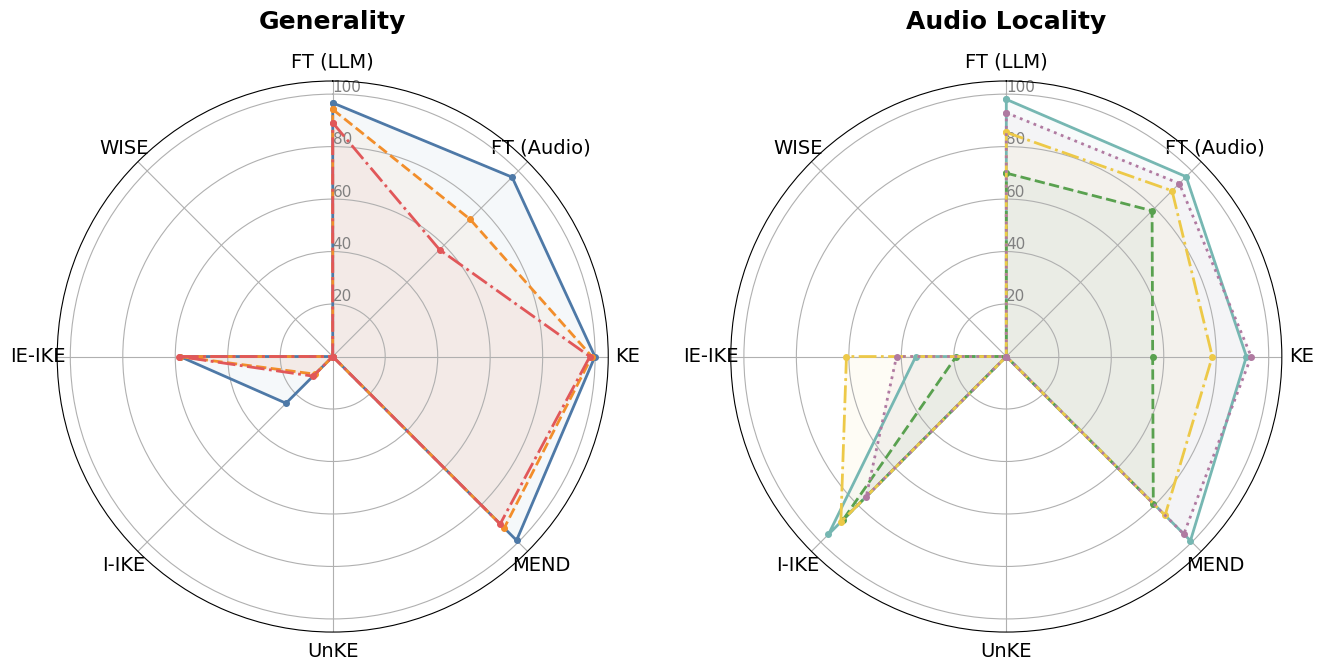
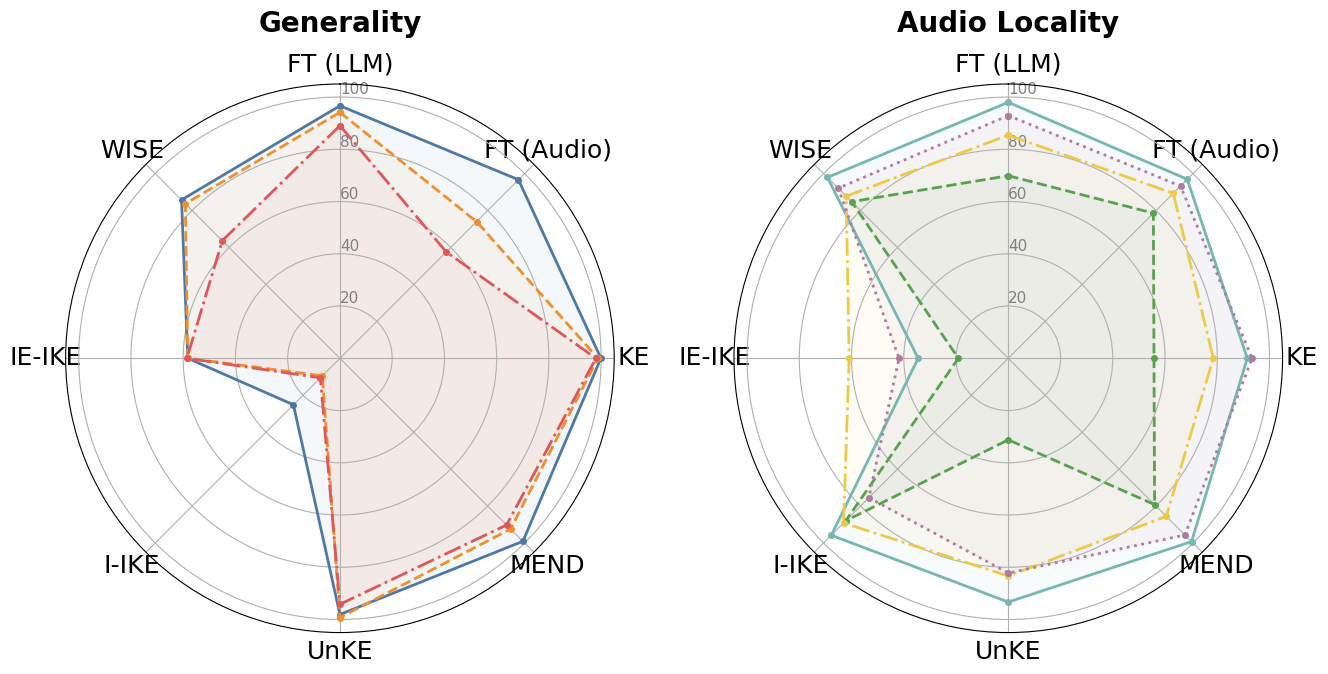
update radar charts

diff --git a/model_outputs/paper_utils/plot_scripts/type_breakdown_radar.py b/model_outputs/paper_utils/plot_scripts/type_breakdown_radar.py
@@ -117,15 +117,15 @@ parser.add_argument(
 parser.add_argument(
     "--show_legend",
     action="store_true",
-    default=True,
-    help="Show legend (default: True). Use --no_legend to hide.",
+    # default=True,
+    # help="Show legend (default: True). Use --no_legend to hide.",
 )
-parser.add_argument(
-    "--no_legend",
-    action="store_false",
-    dest="show_legend",
-    help="Do not show legend",
-)
+# parser.add_argument(
+#     "--no_legend",
+#     action="store_false",
+#     dest="show_legend",
+#     help="Do not show legend",
+# )
 args = parser.parse_args()
 
 # ==========================================
@@ -159,7 +159,7 @@ def plot_radar(ax, data, colors, title, type_name, num_types):
     ax.set_theta_offset(np.pi / 2)
     ax.set_theta_direction(-1)
     ax.set_xticks(angles[:-1])
-    ax.set_xticklabels(methods, size=14)
+    ax.set_xticklabels(methods, size=18)
 
     # Y軸 (分數)
     ax.set_rlabel_position(0)
@@ -176,14 +176,14 @@ def plot_radar(ax, data, colors, title, type_name, num_types):
             values,
             linewidth=2,
             linestyle=linestyles[i % 4],
-            label=f"{type_name} Type {i+1}",
+            label=f"Type {i+1} {type_name}",
             color=colors[i],
             marker="o",
             markersize=4,
         )
         ax.fill(angles, values, color=colors[i], alpha=0.05)
 
-    ax.set_title(title, size=18, weight="bold", y=1.08)
+    ax.set_title(title, size=20, weight="bold", y=1.08)
 
 
 # --- 繪製 Charts ---
@@ -217,8 +217,8 @@ if args.show_legend:
         labels_gen,
         loc="lower center",
         bbox_to_anchor=(0.5, 1.15),
-        ncol=3,
-        fontsize=12,
+        ncol=2,
+        fontsize=17,
         frameon=False,
     )
     # Locality 右邊 (對應右欄)
@@ -228,7 +228,7 @@ if args.show_legend:
         loc="lower center",
         bbox_to_anchor=(0.5, 1.15),
         ncol=2,
-        fontsize=12,
+        fontsize=17,
         frameon=False,
     )
 
